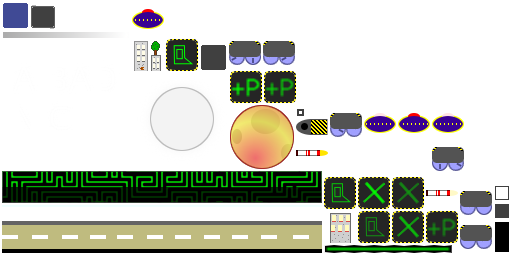
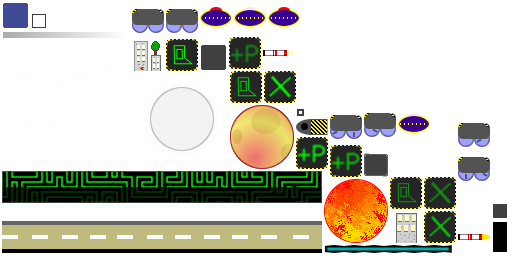
Avoid crashing the game when the user request the achievements without being connected. New graphic for the power gauge

Changed region(s): [[0.5625, 0.4375, 1.0, 1.0], [0.25, 0.0312, 0.5938, 0.375], [0.0625, 0.0, 0.125, 0.125]]

diff --git a/android/src/the_catwolf/BadNight/android/AndroidLauncher.java b/android/src/the_catwolf/BadNight/android/AndroidLauncher.java
@@ -53,8 +53,8 @@ public class AndroidLauncher extends AndroidApplication implements GoogleService
 		BadNight badNight = null;
 		badNight = new BadNight(this);
 		
-		//initialize(badNight, config);
-		createWithAds(badNight, config);
+		initialize(badNight, config);
+		//createWithAds(badNight, config);
 		BadNight.badNight = badNight;
 		
 		// Create the GameHelper.
@@ -224,7 +224,7 @@ public class AndroidLauncher extends AndroidApplication implements GoogleService
 		if ( isSignedIn() ){
 			startActivityForResult(Games.Achievements.getAchievementsIntent(gameHelper.getApiClient()), REQUEST_CODE_UNUSED);
 		}else{
-			gameHelper.makeSimpleDialog("Please go to Options and sign in");
+			//gameHelper.makeSimpleDialog("Please go to Options and sign in");
 		}
 	}
 

diff --git a/core/src/the_catwolf/BadNight/BadNight.java b/core/src/the_catwolf/BadNight/BadNight.java
@@ -44,8 +44,8 @@ public class BadNight extends Game{
 	
 	static public BadNight badNight;
 	final private static int VERSION = 1;
-	final private static int FEATURES = 4;
-	final private static int BUGS_SOLVED = 0;
+	final private static int FEATURES = 5;
+	final private static int BUGS_SOLVED = 1;
 		
 	AssetManager assets;
 	
